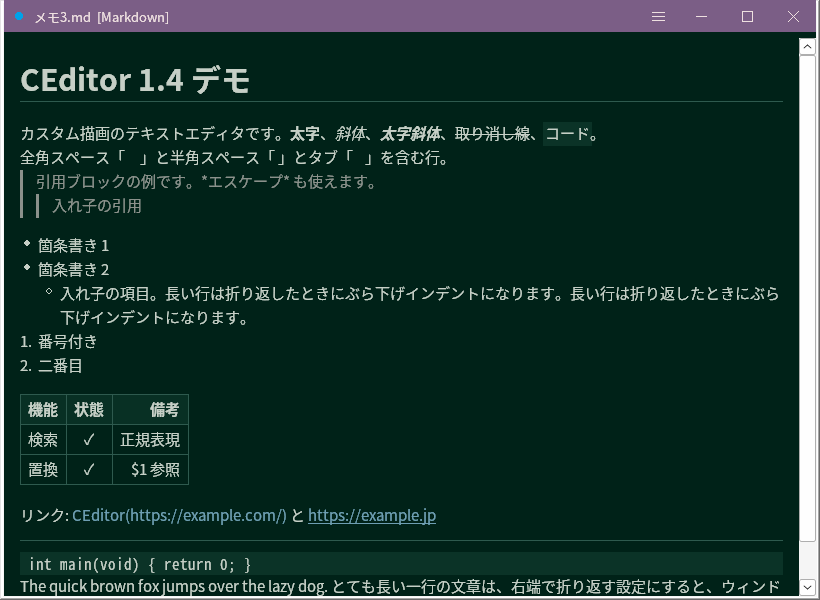
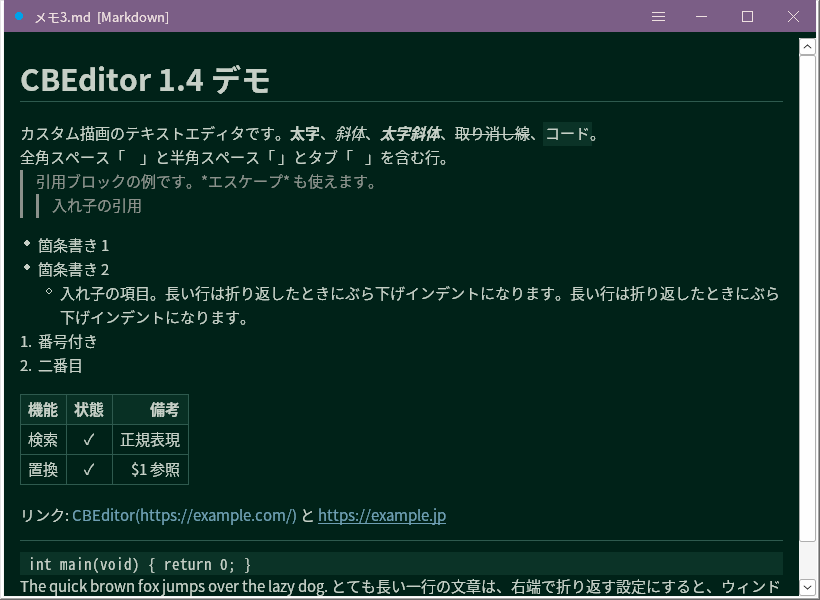
v1.4.1: rename CEditor to CBEditor, publish under the MIT licence
- New name CBEditor (ChalkBoard Editor): app name, window classes, version
  info, exe cbeditor.exe, settings cbeditor.ini / %APPDATA%\CBEditor.
- Settings of CEditor <= 1.4.0 (editor.ini next to the exe, then
  %APPDATA%\CEditor\editor.ini) are read when cbeditor.ini does not exist,
  then saved as cbeditor.ini.
- README: AI-operation note, English summary, licence. No functional change.
- Self-test 123 checks.

Changed region(s): [[0.0915, 0.84, 0.5488, 0.87], [0.061, 0.09, 0.3354, 0.15]]

diff --git a/editor.c b/editor.c
@@ -1,5 +1,5 @@
 /*
- * CEditor 1.3 - custom-drawn Win32 text editor with EDIT-compatible inline Japanese IME,
+ * CBEditor 1.4 - custom-drawn Win32 text editor with EDIT-compatible inline Japanese IME,
  * custom title bar, find/replace (own regex engine), word wrap, large files, Markdown view.
  * Plain C / Win32 / GDI / IMM32 / DWM. No EDIT/RichEdit for the document itself.
  */
@@ -30,11 +30,11 @@
 #include <psapi.h>
 #include "regex.h"
 
-#define APPNAME   L"CEditor"
-#define APPVER    L"1.4.0"
-#define CLS_FRAME L"CEditorFrame"
-#define CLS_TEXT  L"CEditorText"
-#define CLS_FIND  L"CEditorFind"
+#define APPNAME   L"CBEditor"
+#define APPVER    L"1.4.1"
+#define CLS_FRAME L"CBEditorFrame"
+#define CLS_TEXT  L"CBEditorText"
+#define CLS_FIND  L"CBEditorFind"
 
 /* colours (spec) */
 #define C_FRAME     RGB(0x3D, 0x01, 0x05)
@@ -3648,18 +3648,25 @@ static LRESULT CALLBACK TextProc(HWND h, UINT m, WPARAM wp, LPARAM lp) {
 }
 
 /* ================================================================== */
-/* settings (.ini next to the exe; falls back to %APPDATA%\CEditor)    */
+/* settings (cbeditor.ini next to the exe, else %APPDATA%\CBEditor)   */
 /* ================================================================== */
 static BOOL g_noIni;
 static BOOL g_iniHaveRect; static RECT g_iniRect; static BOOL g_iniMax;
-static void IniPaths(WCHAR *exeIni, WCHAR *appIni) {
+static void IniPathsAs(WCHAR *exeIni, WCHAR *appIni, const WCHAR *dir, const WCHAR *name) {
     GetModuleFileNameW(NULL, exeIni, MAX_PATH * 4);
     WCHAR *s = wcsrchr(exeIni, L'\\'); if (s) s[1] = 0; else exeIni[0] = 0;
-    wcscat(exeIni, L"editor.ini");
+    wcscat(exeIni, name);
     appIni[0] = 0;
     DWORD n = GetEnvironmentVariableW(L"APPDATA", appIni, MAX_PATH * 3);
     if (n == 0 || n >= MAX_PATH * 3) appIni[0] = 0;
-    else wcscat(appIni, L"\\CEditor\\editor.ini");
+    else { wcscat(appIni, L"\\"); wcscat(appIni, dir); wcscat(appIni, L"\\"); wcscat(appIni, name); }
+}
+static void IniPaths(WCHAR *exeIni, WCHAR *appIni) { IniPathsAs(exeIni, appIni, L"CBEditor", L"cbeditor.ini"); }
+/* the file to read: cbeditor.ini (next to the exe, then %APPDATA%), else the settings of CEditor <= 1.4.0
+   (editor.ini next to the exe, then %APPDATA%\CEditor). Saving always writes the new name. */
+static const WCHAR *IniPick(const WCHAR *const c[4]) {
+    for (int i = 0; i < 4; i++) if (c[i][0] && GetFileAttributesW(c[i]) != INVALID_FILE_ATTRIBUTES) return c[i];
+    return NULL;
 }
 static void IniReadFrom(const WCHAR *p) {
     WCHAR b[32];
@@ -3686,9 +3693,10 @@ static void IniReadFrom(const WCHAR *p) {
 }
 static void LoadIni(void) {
     WCHAR a[MAX_PATH * 4], b[MAX_PATH * 4];
-    IniPaths(a, b);
-    if (GetFileAttributesW(a) != INVALID_FILE_ATTRIBUTES) { wcscpy(g_iniPath, a); IniReadFrom(a); }
-    else if (b[0] && GetFileAttributesW(b) != INVALID_FILE_ATTRIBUTES) { wcscpy(g_iniPath, b); IniReadFrom(b); }
+    WCHAR c[MAX_PATH * 4], d[MAX_PATH * 4];
+    IniPaths(a, b); IniPathsAs(c, d, L"CEditor", L"editor.ini");
+    const WCHAR *const cand[4] = { a, b, c, d }, *f = IniPick(cand);
+    if (f) { wcscpy(g_iniPath, f); IniReadFrom(f); }
 }
 static BOOL IniPut(const WCHAR *sec, const WCHAR *key, int v, const WCHAR *p) {
     WCHAR b[32]; _snwprintf(b, 32, L"%d", v); b[31] = 0;
@@ -4093,7 +4101,7 @@ static LRESULT CALLBACK FrameProc(HWND h, UINT m, WPARAM wp, LPARAM lp) {
 }
 
 /* ================================================================== */
-/* self test (editor.exe --selftest log.txt)                           */
+/* self test (cbeditor.exe --selftest log.txt)                         */
 /* ================================================================== */
 static FILE *g_stf; static int g_stfail, g_stcount;
 static void STLog(const char *fmt, ...) {
@@ -4556,7 +4564,7 @@ static void RunSelfTest(void) {
     SetFocus(g_hwnd);
     g_wrap = FALSE; g_showWs = FALSE; g_layoutVer++;
     RECT rc; GetClientRect(g_hwnd, &rc);
-    STLog("CEditor %s selftest\ndpi=%u client=%ldx%ld lineH=%d font=%s\n", W2U(APPVER), g_dpi, rc.right, rc.bottom, g_lineH, W2U(g_lf.lfFaceName));
+    STLog("CBEditor %s selftest\ndpi=%u client=%ldx%ld lineH=%d font=%s\n", W2U(APPVER), g_dpi, rc.right, rc.bottom, g_lineH, W2U(g_lf.lfFaceName));
     /* ---- 1. one measurement path (v1.0.1 checks) ---- */
     static const WCHAR *const lines[] = { L"テスト", L"abc def_ghi XYZ", L"長井文章をへんかんすると下線が長くなります",
                                           L"𠮷野家😀と絵文字", L"ｱｲｳ半角ｶﾅ ﾃｽﾄ mixed 全角ＡＢＣ" };
@@ -5213,6 +5221,20 @@ static void RunSelfTest(void) {
         snprintf(buf, sizeof buf, "ini round trip (%s): write=%d font=%d zoom=%d wrap=%d ws=%d linenumbers=%d", W2U(ip), wr, g_fontIdx, g_fontPt10, g_wrap, g_showWs, g_lineNo);
         STCheck(wr && g_fontIdx == 2 && g_fontPt10 == 150 && g_wrap && g_showWs && g_lineNo, buf);
         DeleteFileW(ip);
+        {   /* settings of CEditor <= 1.4.0 (editor.ini) are read while cbeditor.ini does not exist yet */
+            WCHAR np[MAX_PATH], op[MAX_PATH];
+            _snwprintf(np, MAX_PATH, L"%lsced_st_cbeditor.ini", tmp); np[MAX_PATH - 1] = 0;
+            _snwprintf(op, MAX_PATH, L"%lsced_st_editor.ini", tmp); op[MAX_PATH - 1] = 0;
+            DeleteFileW(np);
+            g_fontIdx = 4; IniWriteTo(op); g_fontIdx = 0;
+            const WCHAR *const cand[4] = { np, L"", op, L"" };
+            const WCHAR *p1 = IniPick(cand); if (p1) IniReadFrom(p1);
+            int fo = g_fontIdx; g_fontIdx = 1; IniWriteTo(np);
+            const WCHAR *p2 = IniPick(cand);
+            snprintf(buf, sizeof buf, "ini: only the old editor.ini -> read it (font %d, expect 4); after saving cbeditor.ini it wins (%s)", fo, p2 == np ? "yes" : "no");
+            STCheck(p1 == op && fo == 4 && p2 == np, buf);
+            DeleteFileW(np); DeleteFileW(op);
+        }
         g_fontIdx = f0; g_fontPt10 = z0; g_wrap = w0; g_showWs = s0; g_lineNo = l0; g_iniHaveRect = FALSE;
         BOOL bad = IniWriteTo(L"Z:\\no\\such\\dir\\x.ini");
         snprintf(buf, sizeof buf, "ini: unwritable path reports failure (-> %%APPDATA%% fallback): %d", !bad);
@@ -5255,7 +5277,7 @@ static void RunSelfTest(void) {
 /* demo (screenshots) and benchmark modes                              */
 /* ================================================================== */
 static const WCHAR kDemoText[] =
-    L"# CEditor 1.4 デモ\n"
+    L"# CBEditor 1.4 デモ\n"
     L"\n"
     L"カスタム描画のテキストエディタです。**太字**、*斜体*、***太字斜体***、~~取り消し線~~、`コード`。\n"
     L"全角スペース「　」と半角スペース「 」とタブ「\t」を含む行。\n"
@@ -5273,7 +5295,7 @@ static const WCHAR kDemoText[] =
     L"| 検索 | ✓ | 正規表現 |\n"
     L"| 置換 | ✓ | $1 参照 |\n"
     L"\n"
-    L"リンク: [CEditor](https://example.com/ \"タイトル\") と <https://example.jp>\n"
+    L"リンク: [CBEditor](https://example.com/ \"タイトル\") と <https://example.jp>\n"
     L"<!-- このコメントは表示されません -->\n"
     L"***\n"
     L"```\n"
